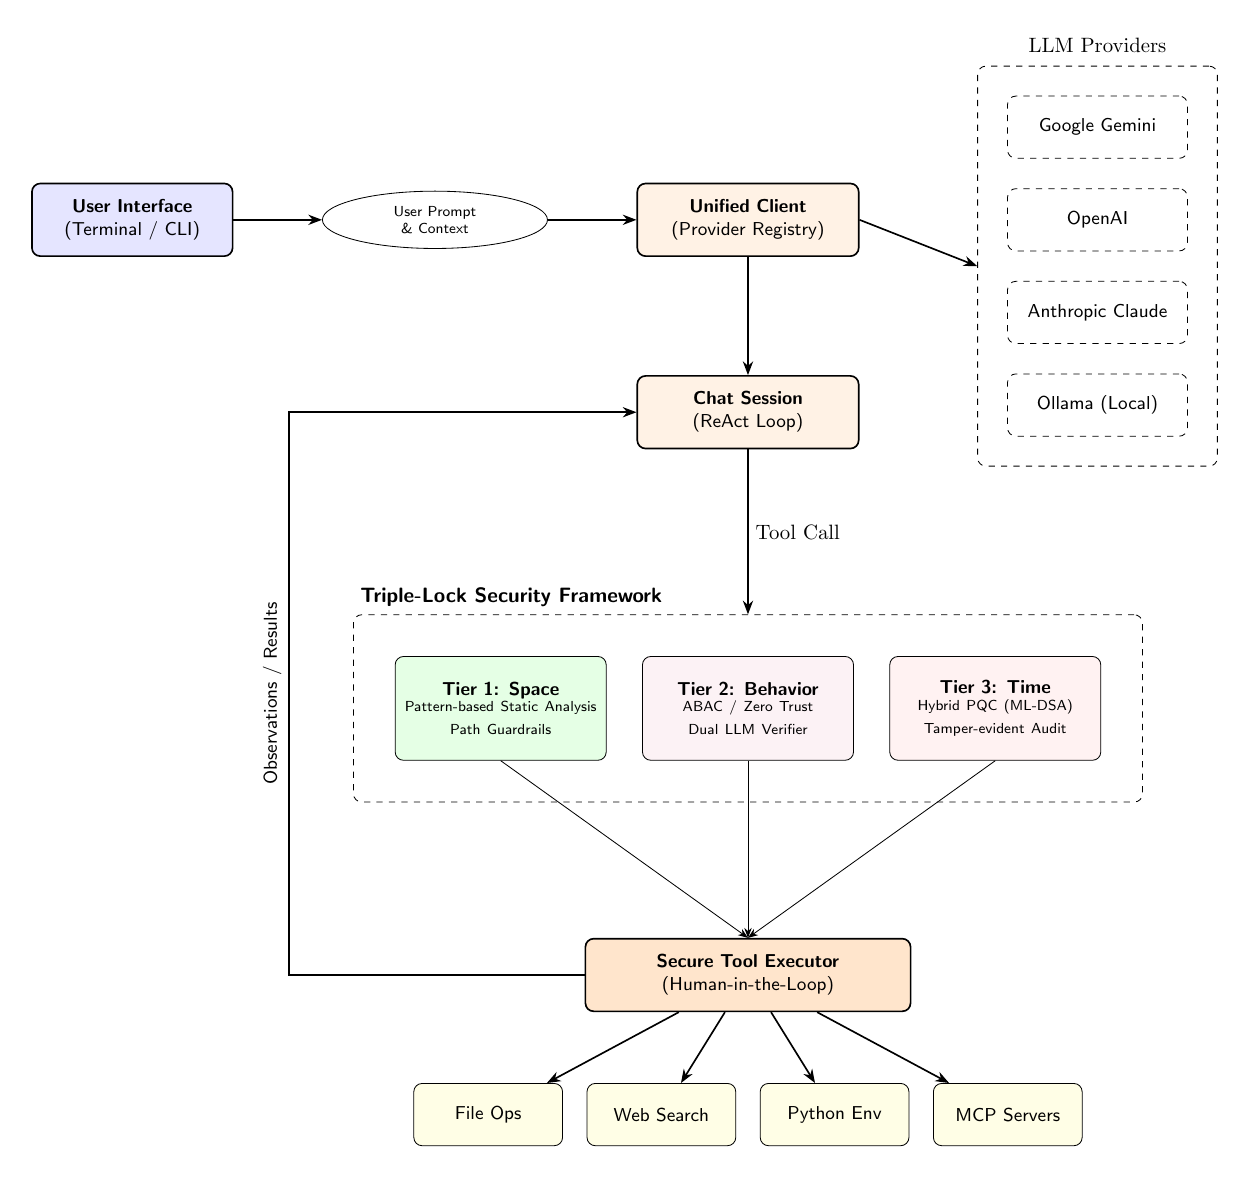
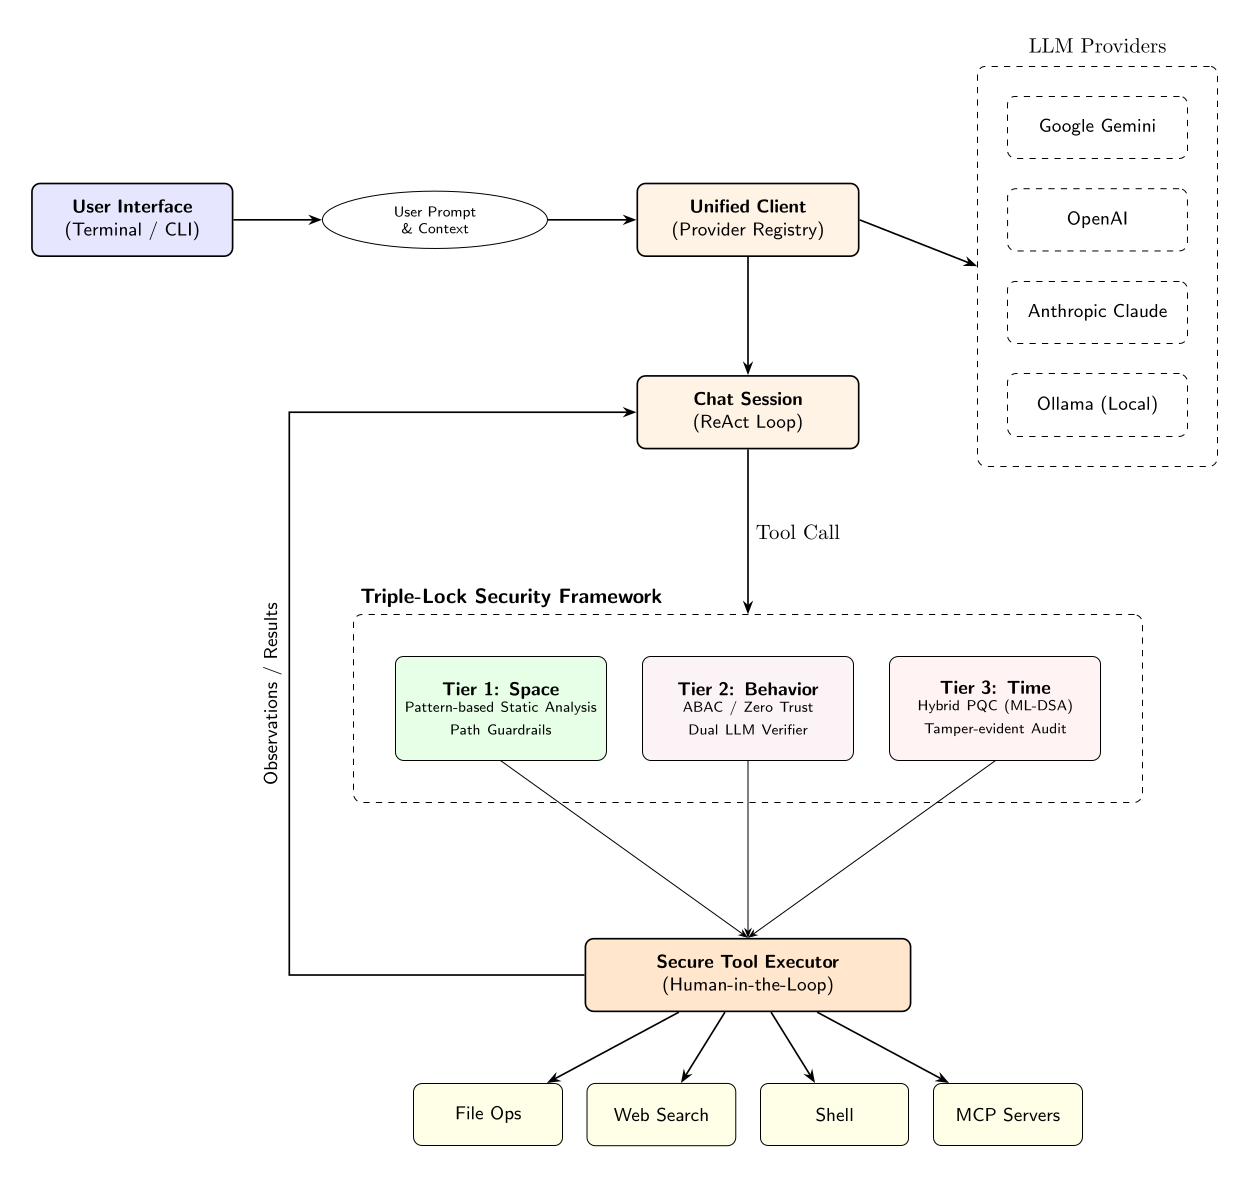
Update architecture diagram: replace Python Env with Shell

diff --git a/architecture_diagrams/architecture.tex b/architecture_diagrams/architecture.tex
@@ -66,9 +66,9 @@
     % --- Level 6: External Tools ---
     % Center the group of 4 tools by placing the middle two symmetrically
     \node [tool, anchor=north east, xshift=-0.2cm] (web) at ($(executor.south) + (0,-1.2)$) {Web Search};
-    \node [tool, anchor=north west, xshift=0.2cm] (python) at ($(executor.south) + (0,-1.2)$) {Python Env};
+    \node [tool, anchor=north west, xshift=0.2cm] (shell) at ($(executor.south) + (0,-1.2)$) {Shell};
     \node [tool, left=0.4cm of web] (file) {File Ops};
-    \node [tool, right=0.4cm of python] (mcp) {MCP Servers};
+    \node [tool, right=0.4cm of shell] (mcp) {MCP Servers};
 
     % --- Connections ---
     \draw [->, thick] (user) -- (prompt);
@@ -87,7 +87,7 @@
     
     \draw [->, thick] (executor) -- (file);
     \draw [->, thick] (executor) -- (web);
-    \draw [->, thick] (executor) -- (python);
+    \draw [->, thick] (executor) -- (shell);
     \draw [->, thick] (executor) -- (mcp);
 
     % Feedback Loop
